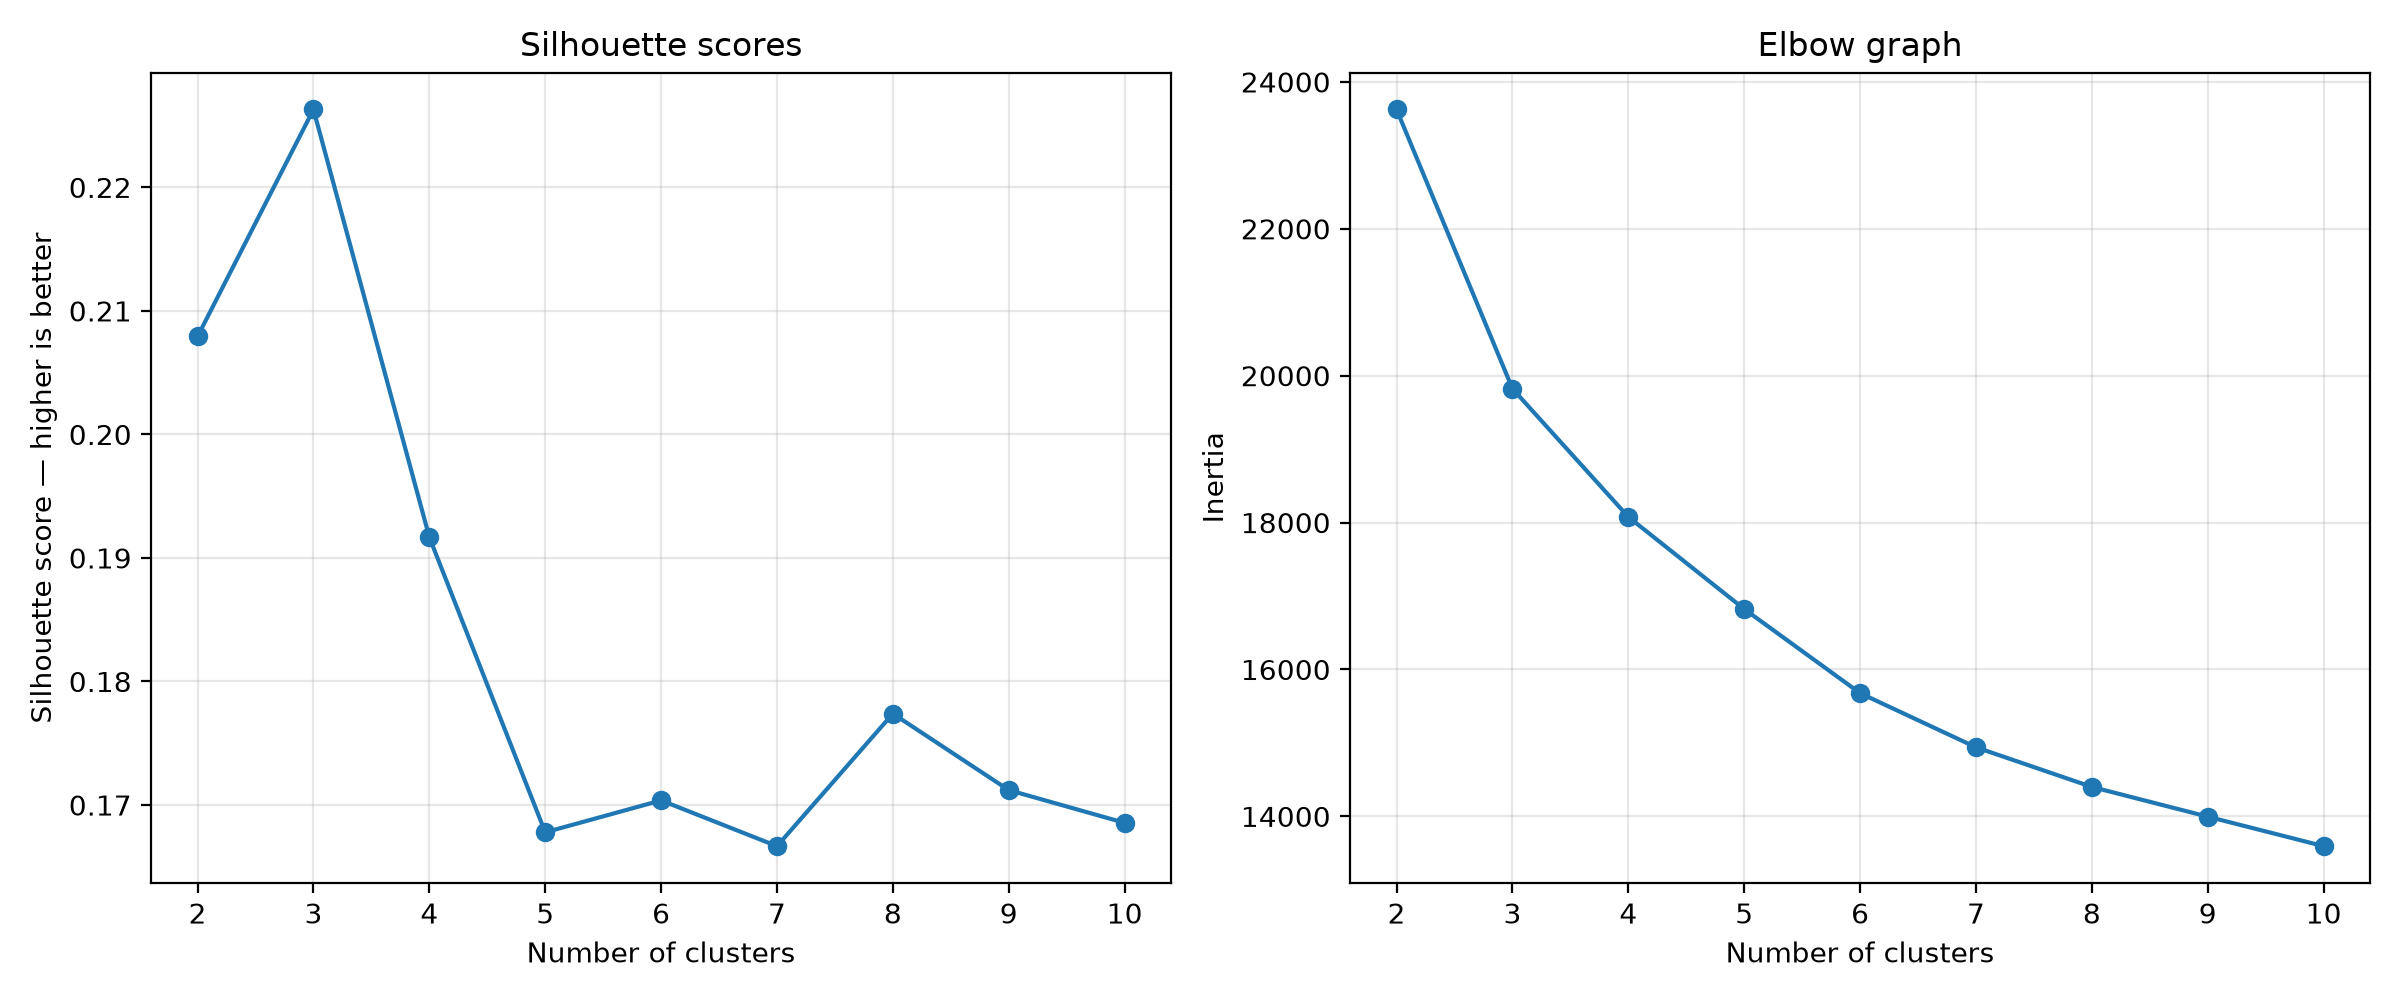
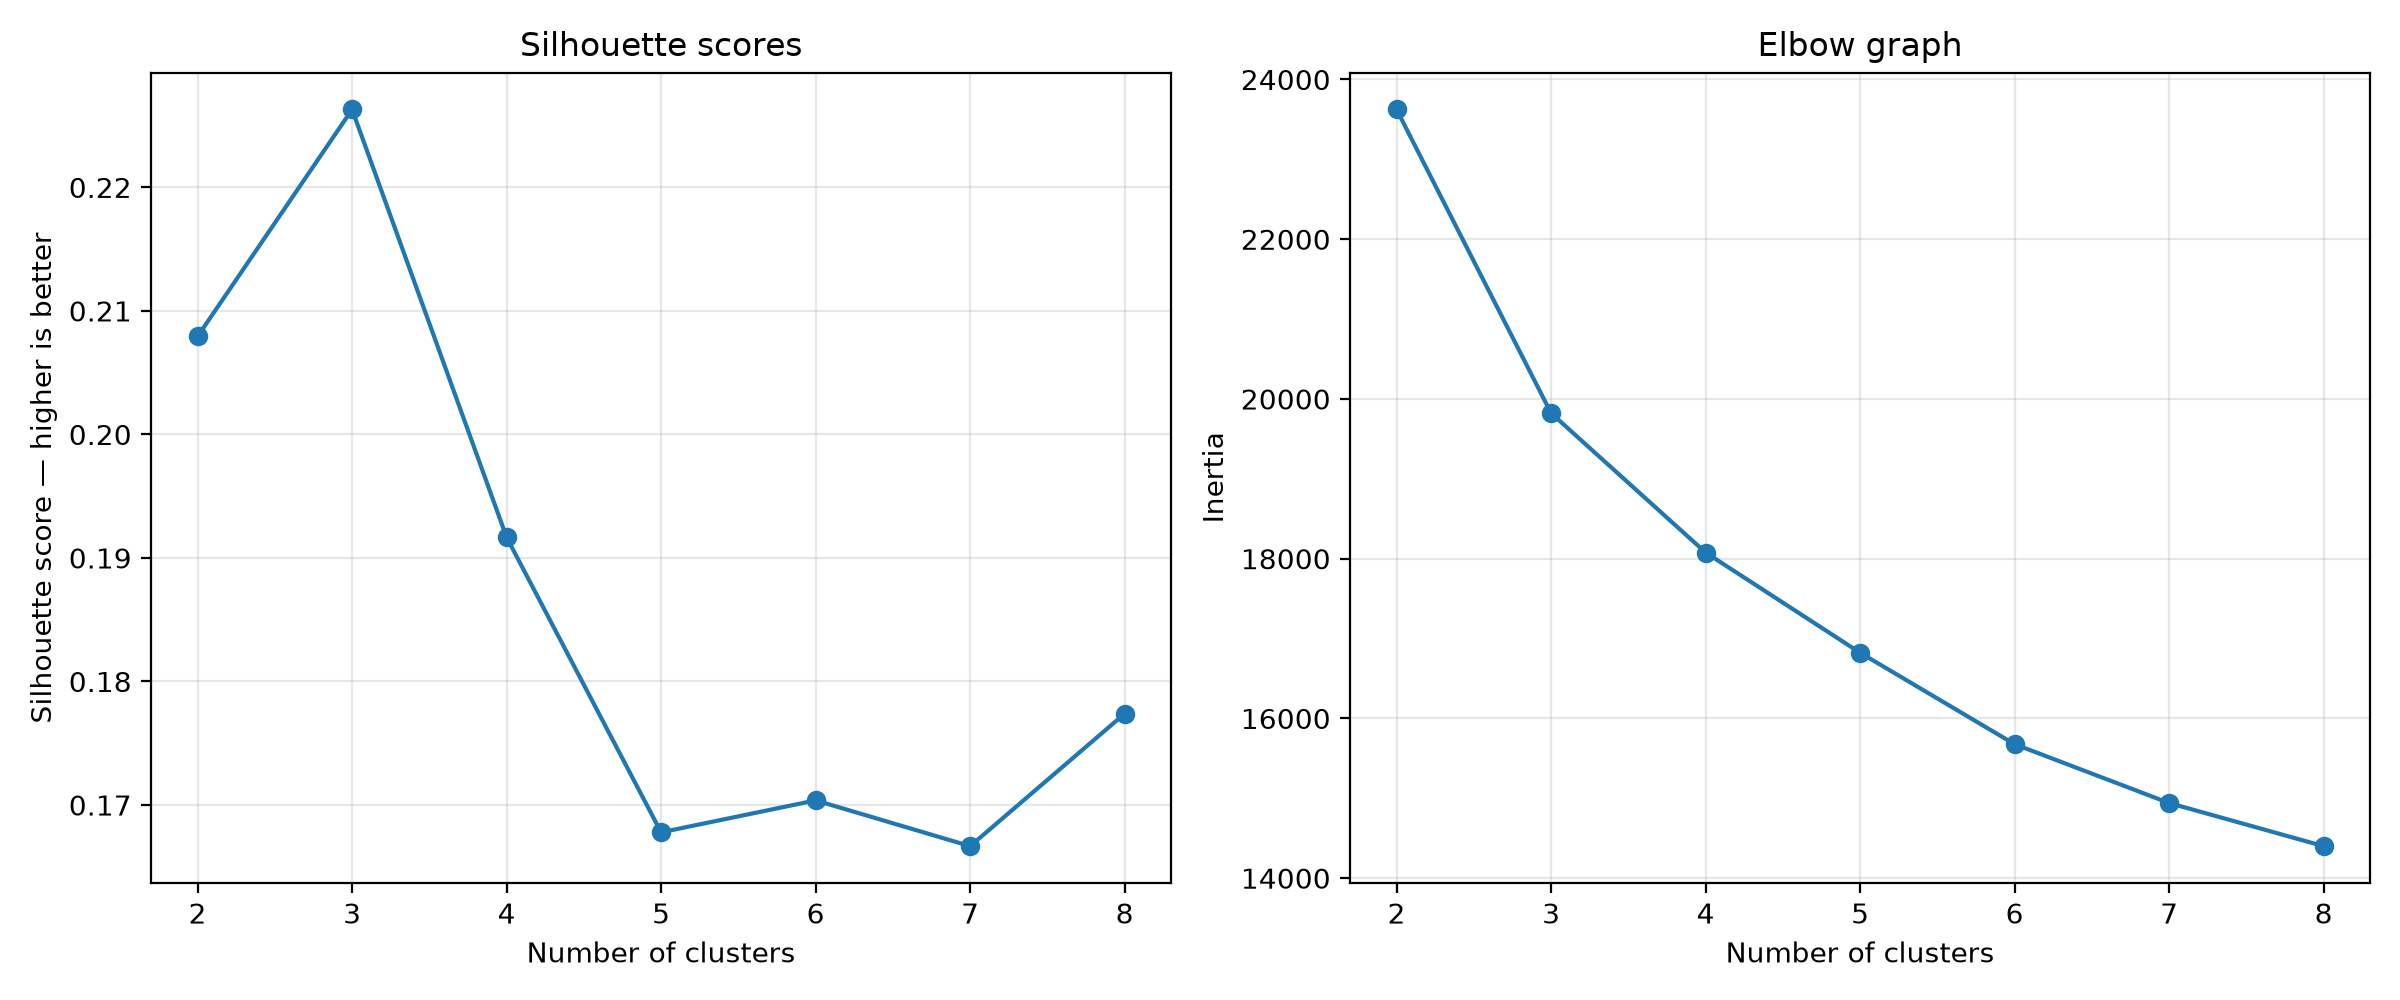
latest update , changed clusters from 2-10 to 2-8

diff --git a/cluster_model.py b/cluster_model.py
@@ -53,7 +53,7 @@ def train_models(X):
     best_score = -np.inf
 
     # Avoid requesting more clusters than distinct patient patterns.
-    max_k = min(10, len(X) - 1, len(X.drop_duplicates()))
+    max_k = min(8, len(X) - 1, len(X.drop_duplicates()))
 
     if max_k < 2:
         raise ValueError("There are not enough distinct patient patterns.")
